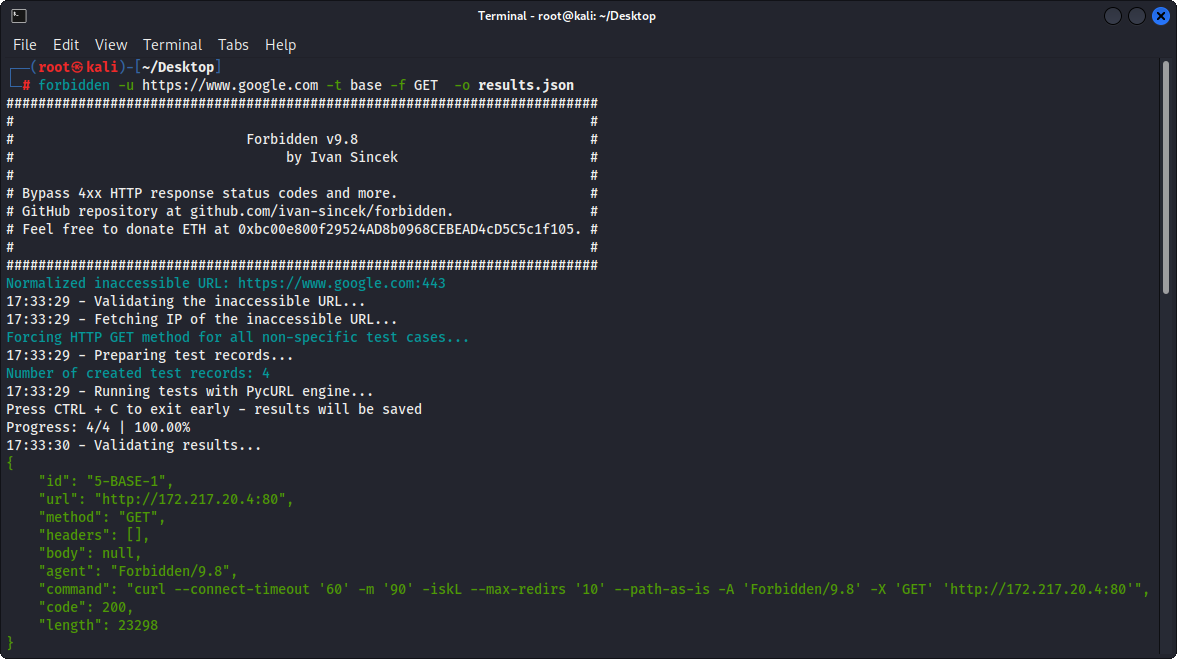
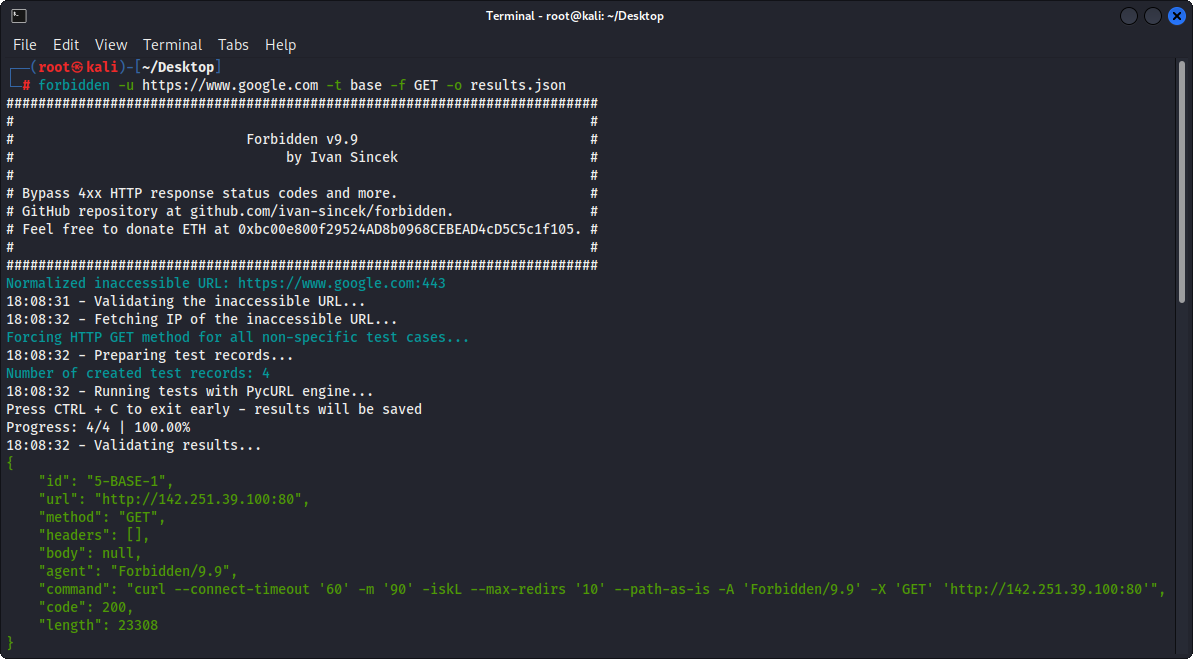
README Fix and Version Bump

Changed region(s): [[0.0, 0.0607, 0.9788, 0.9712], [0.3976, 0.0, 0.4894, 0.0303], [0.52, 0.0, 0.5506, 0.0303]]

diff --git a/src/forbidden/forbidden.py b/src/forbidden/forbidden.py
@@ -272,7 +272,7 @@ def write_file(data, out):
 		except FileNotFoundError:
 			print(("Cannot save results to '{0}'").format(out))
 
-default_user_agent = "Forbidden/9.8"
+default_user_agent = "Forbidden/9.9"
 
 # NOTE: Returns a user agents list (string array) on success.
 # NOTE: Returns the default user agent (string) on failure.
@@ -988,13 +988,13 @@ class Forbidden:
 			)
 		# --------------------------------
 		if self.__check_tests(["redirects", "all"]):
-			# NOTE: Test open redirects and server-side request forgery (SSRF).
+			# NOTE: Test open redirects, OOB, and SSRF.
 			self.__records(
 				identifier = "REDIRECTS-1",
 				urls       = self.__url["urls"]["base"],
 				headers    = self.__get_url_headers(self.__get_redirect_urls(scheme = True, ip = False))
 			)
-			# NOTE: Test open redirects and server-side request forgery (SSRF).
+			# NOTE: Test open redirects, OOB, and SSRF.
 			self.__records(
 				identifier = "REDIRECTS-2",
 				urls       = self.__url["urls"]["base"],
@@ -1002,13 +1002,13 @@ class Forbidden:
 			)
 		# --------------------------------
 		if self.__check_tests(["parsers", "all"]):
-			# NOTE: Test broken URL parsers and server-side request forgery (SSRF).
+			# NOTE: Test broken URL parsers, OOB, and SSRF.
 			self.__records(
 				identifier = "PARSERS-1",
 				urls       = self.__url["urls"]["base"],
 				headers    = self.__get_url_headers(self.__get_broken_urls(scheme = True, ip = False))
 			)
-			# NOTE: Test broken URL parsers and server-side request forgery (SSRF).
+			# NOTE: Test broken URL parsers, OOB, and SSRF.
 			self.__records(
 				identifier = "PARSERS-2",
 				urls       = self.__url["urls"]["base"],
@@ -1506,7 +1506,7 @@ class Validate:
 
 	def __basic(self):
 		self.__proceed = False
-		print("Forbidden v9.8 ( github.com/ivan-sincek/forbidden )")
+		print("Forbidden v9.9 ( github.com/ivan-sincek/forbidden )")
 		print("")
 		print("Usage:   forbidden -u url                       -t tests [-f force] [-v values    ] [-p path ] [-o out         ]")
 		print("Example: forbidden -u https://example.com/admin -t all   [-f POST ] [-v values.txt] [-p /home] [-o results.json]")
@@ -1816,7 +1816,7 @@ def main():
 	if validate.run():
 		print("##########################################################################")
 		print("#                                                                        #")
-		print("#                             Forbidden v9.8                             #")
+		print("#                             Forbidden v9.9                             #")
 		print("#                                  by Ivan Sincek                        #")
 		print("#                                                                        #")
 		print("# Bypass 4xx HTTP response status codes and more.                        #")

diff --git a/src/stresser/stresser.py b/src/stresser/stresser.py
@@ -143,7 +143,7 @@ def write_file(data, out):
 		except FileNotFoundError:
 			print(("Cannot save results to '{0}'").format(out))
 
-default_user_agent = "Stresser/9.8"
+default_user_agent = "Stresser/9.9"
 
 # NOTE: Returns a user agents list (string array) on success.
 # NOTE: Returns the default user agent (string) on failure.
@@ -748,7 +748,7 @@ class Validate:
 
 	def __basic(self):
 		self.__proceed = False
-		print("Stresser v9.8 ( github.com/ivan-sincek/forbidden )")
+		print("Stresser v9.9 ( github.com/ivan-sincek/forbidden )")
 		print("")
 		print("Usage:   stresser -u url                       -u url                        -dir directory -r repeat -th threads [-f force] [-o out         ]")
 		print("Example: stresser -u https://example.com/admin -u https://example.com/secret -dir results   -r 1000   -th 200     [-f GET  ] [-o results.json]")
@@ -983,7 +983,7 @@ def main():
 	if validate.run():
 		print("###########################################################################")
 		print("#                                                                         #")
-		print("#                              Stresser v9.8                              #")
+		print("#                              Stresser v9.9                              #")
 		print("#                                  by Ivan Sincek                         #")
 		print("#                                                                         #")
 		print("# Bypass 4xx HTTP response status codes  with stress testing.             #")

diff --git a/README.md b/README.md
@@ -24,8 +24,8 @@ To manually filter out false positive results, for each unique HTTP response con
 | URL path bypasses. | paths |
 | URL transformations and encodings. | encodings |
 | Basic and bearer auth + w/ null session and malicious JWTs. | base |
-| Open redirect, OOB, and SSRF - HTTP request headers only. | redirects |
-| Broken URL parsers. | parsers |
+| Open redirects, OOB, and SSRF. | redirects |
+| Broken URL parsers, OOB, and SSRF. | parsers |
 
 ---
 
@@ -112,7 +112,7 @@ python3 -m pip install --upgrade build
 
 python3 -m build
 
-python3 -m pip install dist/forbidden-9.8-py3-none-any.whl
+python3 -m pip install dist/forbidden-9.9-py3-none-any.whl
 ```
 
 ## Automation
@@ -137,13 +137,13 @@ Bypass `401 Unauthorized` HTTP response status code:
 count=0; for subdomain in $(cat subdomains_401.txt); do count=$((count+1)); echo "#${count} | ${subdomain}"; forbidden -u "${subdomain}" -t auths -f GET -l base -o "forbidden_401_results_${count}.json"; done
 ```
 
-Test open redirects and server-side request forgery (SSRF):
+Test open redirects, OOB, and SSRF:
 
 ```bash
 count=0; for subdomain in $(cat subdomains_live_long.txt); do count=$((count+1)); echo "#${count} | ${subdomain}"; forbidden -u "${subdomain}" -t redirects -f GET -l base -e xyz.interact.sh -o "forbidden_redirect_results_${count}.json"; done
 ```
 
-Test broken URL parsers:
+Test broken URL parsers, OOB, and SSRF:
 
 ```bash
 count=0; for subdomain in $(cat subdomains_live_long.txt); do count=$((count+1)); echo "#${count} | ${subdomain}"; forbidden -u "${subdomain}" -t parsers -f GET -l base -e xyz.interact.sh -o "forbidden_parser_results_${count}.json"; done
@@ -356,8 +356,8 @@ Inject at the end of the URL path only if it does not end with forward slash.
             "Host: 127.0.0.1"
         ],
         "body": null,
-        "agent": "Forbidden/9.8",
-        "command": "curl --connect-timeout '60' -m '90' -iskL --max-redirs '10' --path-as-is -A 'Forbidden/9.8' -H 'Host: 127.0.0.1' -X 'GET' 'https://github.com:443/test'",
+        "agent": "Forbidden/9.9",
+        "command": "curl --connect-timeout '60' -m '90' -iskL --max-redirs '10' --path-as-is -A 'Forbidden/9.9' -H 'Host: 127.0.0.1' -X 'GET' 'https://github.com:443/test'",
         "code": 200,
         "length": 255408
     },
@@ -369,8 +369,8 @@ Inject at the end of the URL path only if it does not end with forward slash.
             "Host: 127.0.0.1:443"
         ],
         "body": null,
-        "agent": "Forbidden/9.8",
-        "command": "curl --connect-timeout '60' -m '90' -iskL --max-redirs '10' --path-as-is -A 'Forbidden/9.8' -H 'Host: 127.0.0.1:443' -X 'GET' 'https://github.com:443/test'",
+        "agent": "Forbidden/9.9",
+        "command": "curl --connect-timeout '60' -m '90' -iskL --max-redirs '10' --path-as-is -A 'Forbidden/9.9' -H 'Host: 127.0.0.1:443' -X 'GET' 'https://github.com:443/test'",
         "code": 200,
         "length": 255408
     }
@@ -380,7 +380,7 @@ Inject at the end of the URL path only if it does not end with forward slash.
 ## Usage
 
 ```fundamental
-Forbidden v9.8 ( github.com/ivan-sincek/forbidden )
+Forbidden v9.9 ( github.com/ivan-sincek/forbidden )
 
 Usage:   forbidden -u url                       -t tests [-f force] [-v values    ] [-p path ] [-o out         ]
 Example: forbidden -u https://example.com/admin -t all   [-f POST ] [-v values.txt] [-p /home] [-o results.json]
@@ -440,7 +440,7 @@ SLEEP
     -s <sleep> - 5 | etc.
 AGENT
     User agent to use
-    Default: Forbidden/9.8
+    Default: Forbidden/9.9
     -a <agent> - curl/3.30.1 | random[-all] | etc.
 PROXY
     Web proxy to use
@@ -454,7 +454,7 @@ DEBUG
 ```
 
 ```fundamental
-Stresser v9.8 ( github.com/ivan-sincek/forbidden )
+Stresser v9.9 ( github.com/ivan-sincek/forbidden )
 
 Usage:   stresser -u url                       -u url                        -dir directory -r repeat -th threads [-f force] [-o out         ]
 Example: stresser -u https://example.com/admin -u https://example.com/secret -dir results   -r 1000   -th 200     [-f GET  ] [-o results.json]
@@ -490,7 +490,7 @@ THREADS
     -th <threads> - 200 | etc.
 AGENT
     User agent to use
-    Default: Stresser/9.8
+    Default: Stresser/9.9
     -a <agent> - curl/3.30.1 | random[-all] | etc.
 PROXY
     Web proxy to use
@@ -509,6 +509,6 @@ DEBUG
 
 ## Images
 
-<p align="center"><img src="https://raw.githubusercontent.com/ivan-sincek/forbidden/main/img/basic_example.png" alt="Basic Example"></p>
+<p align="center"><img src="https://github.com/ivan-sincek/forbidden/blob/main/img/basic_example.png" alt="Basic Example"></p>
 
 <p align="center">Figure 1 - Basic Example</p>
